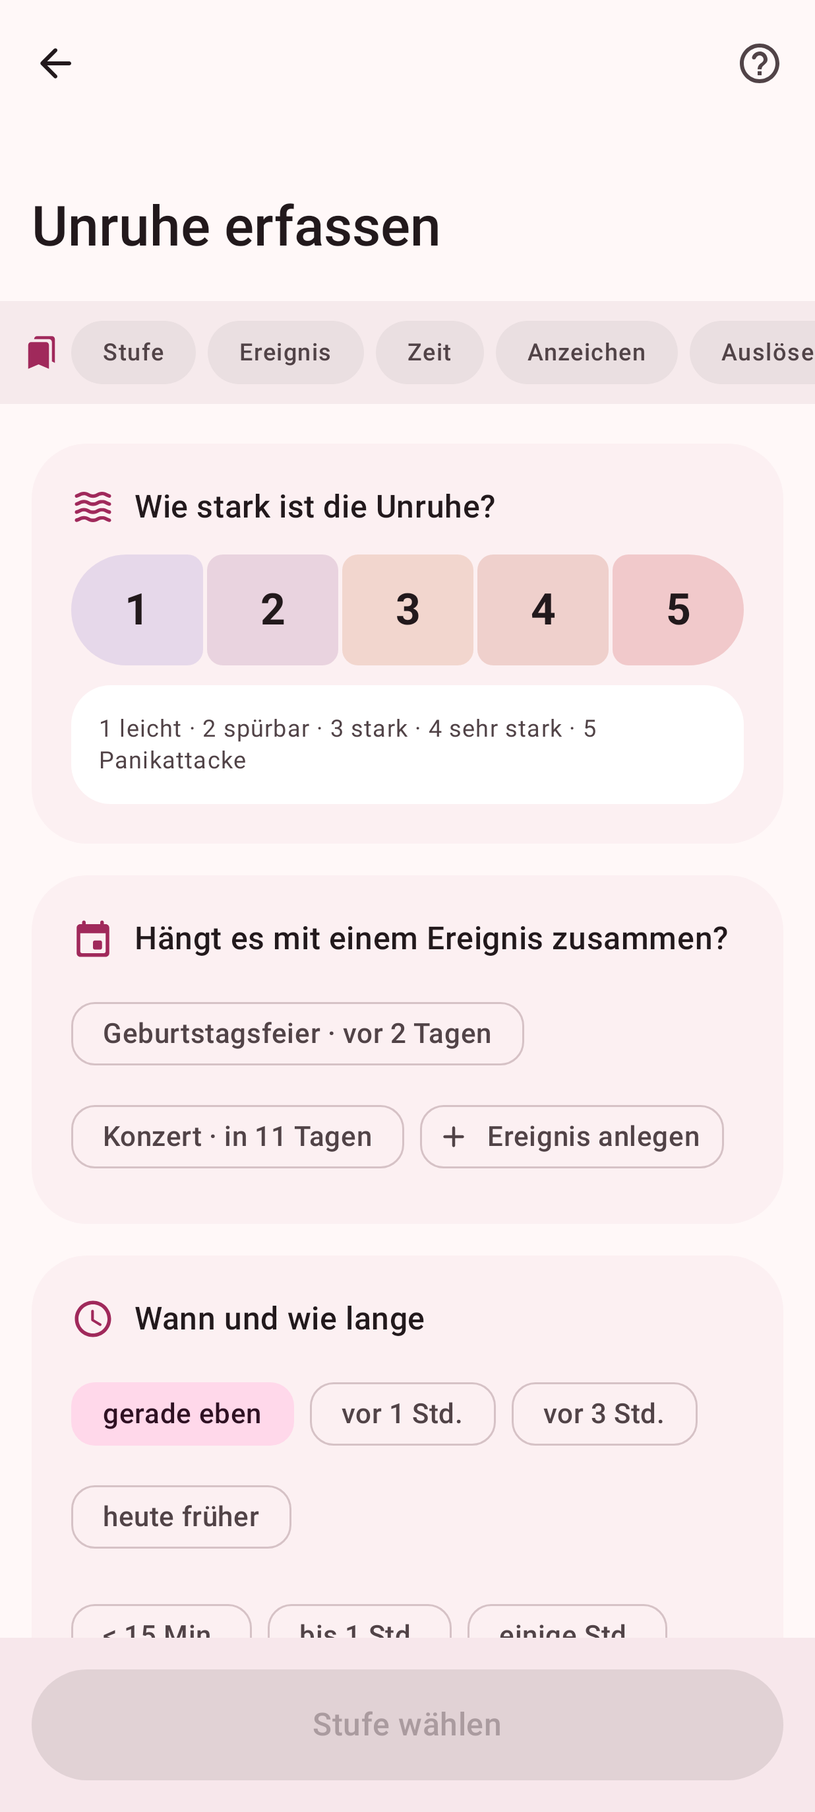
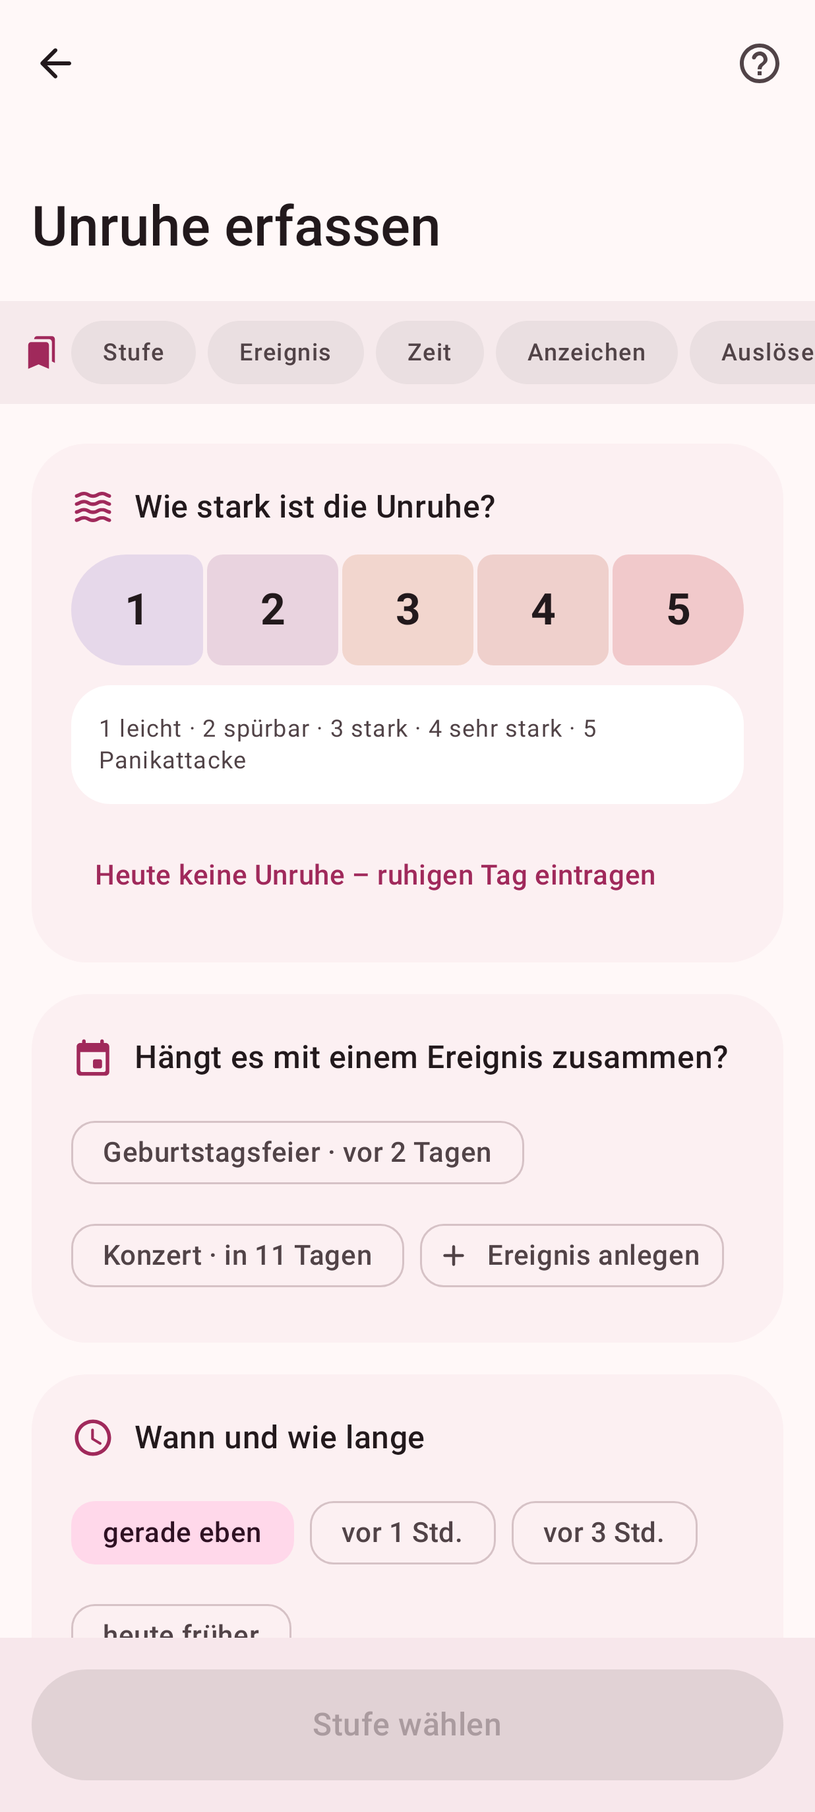
v0.5.1: Verläufe je Kalenderwoche, Unruhe nach Phase nur mit erfassten Tagen, ruhige Tage erfassen
Claude-Session: https://claude.ai/code/session_016ur4THD3drYkvcUc6fCqDM

diff --git a/app/src/main/java/de/fembiond/app/ui/screens/AnalysisScreen.kt b/app/src/main/java/de/fembiond/app/ui/screens/AnalysisScreen.kt
@@ -362,14 +362,21 @@ fun PerimenopauseCard(data: AppData, from: java.time.LocalDate, to: java.time.Lo
             if (stats.size > 6) androidx.compose.material3.TextButton(onClick = { showAll = !showAll }) {
                 Text(if (showAll) "Weniger anzeigen" else "Alle ${stats.size} Beschwerden anzeigen")
             }
-            val months = generateSequence(java.time.YearMonth.from(from)) { it.plusMonths(1) }.takeWhile { !it.isAfter(java.time.YearMonth.from(to)) }.toList()
             val periDays = data.occurrences.filter { it.term in de.fembiond.app.domain.PeriStats.SYMPTOMS && !it.date.isBefore(from) && !it.date.isAfter(to) }
                 .map { it.date }.toSet()
-            if (months.size >= 2 && periDays.size >= 3) {
-                Text("Tage mit Beschwerden pro Monat", style = MaterialTheme.typography.labelLarge)
-                LineChart(months.map { m -> periDays.count { java.time.YearMonth.from(it) == m }.toDouble() },
-                    months.map { "%02d/%02d".format(it.monthValue, it.year % 100) }, 0.0,
-                    months.maxOf { m -> periDays.count { java.time.YearMonth.from(it) == m } }.coerceAtLeast(4).toDouble(), pc.follicular)
+            val trackedAll = (data.occurrences.map { it.date } + data.episodes.map { it.date }).filter { !it.isBefore(from) && !it.isAfter(to) }.toSet()
+            if (periDays.size >= 3) {
+                val mon = { d: java.time.LocalDate -> d.with(java.time.temporal.TemporalAdjusters.previousOrSame(java.time.DayOfWeek.MONDAY)) }
+                val weeks = generateSequence(mon(trackedAll.min())) { it.plusWeeks(1) }.takeWhile { !it.isAfter(mon(trackedAll.max())) }.toList()
+                fun inW(w: java.time.LocalDate, d: java.time.LocalDate) = !d.isBefore(w) && !d.isAfter(w.plusDays(6))
+                if (weeks.size >= 2) {
+                    Text("Tage mit Beschwerden pro Kalenderwoche", style = MaterialTheme.typography.labelLarge)
+                    LineChart(
+                        weeks.map { w -> if (trackedAll.any { inW(w, it) }) periDays.count { inW(w, it) }.toDouble() else null },
+                        weeks.map { "KW ${it.get(java.time.temporal.IsoFields.WEEK_OF_WEEK_BASED_YEAR)}" }, 0.0, 7.0, pc.follicular,
+                    )
+                    HintText("Lücken = Wochen ohne Einträge.")
+                }
             }
         }
         if (mrs.isNotEmpty()) {
@@ -407,7 +414,7 @@ fun AnalysisScreen(data: AppData, nav: NavController) {
     var tabKey by rememberSaveable { mutableStateOf("overview") }
     val hasYear = showMind && data.episodes.any { !it.date.isBefore(from) && !it.date.isAfter(to) }
     val hasTrends = result.trends.size >= 2 && (
-        (showMind && result.trends.any { it.unrestCount > 0 || it.gad != null }) ||
+        (showMind && result.trends.any { (it.unrestCount ?: 0) > 0 || it.gad != null }) ||
             (Category.SLEEP_ENERGY in categories && result.trends.any { it.meanSleep != null || it.meanEnergy != null }))
     val periStats = de.fembiond.app.domain.PeriStats.symptomStats(data.occurrences, from, to)
     val tabs = buildList {
@@ -529,15 +536,25 @@ fun AnalysisScreen(data: AppData, nav: NavController) {
                 }
                 HorizontalDivider()
                 val max = result.unrestByPhase.maxOf { it.count }.coerceAtLeast(1)
-                result.unrestByPhase.forEach { p ->
+                result.unrestByPhase.filter { it.count > 0 || it.daysTracked > 0 }.forEach { p ->
                     RatioBar(
                         p.phase.label, p.count.toDouble() / max,
-                        listOfNotNull("${p.count}", p.meanLevel?.let { "Ø ${it.fmt1()}" }, p.relativeFrequency?.let { "${it.fmt1()}×" }).joinToString(" · "),
+                        listOfNotNull("${p.count}×", p.meanLevel?.let { "Ø Stufe ${it.fmt1()}" }).joinToString(" · "),
                         pc.of(p.phase), p.phase.icon(),
                     )
-                    if (p.panicCount > 0) HintText("davon ${p.panicCount}× Panikattacke")
+                    HintText(listOfNotNull(
+                        "Unruhe an ${p.daysWithUnrest} von ${p.daysTracked} erfassten Tagen",
+                        p.relativeFrequency?.let { "${it.fmt1()}× so häufig wie im Schnitt" },
+                        p.panicCount.takeIf { it > 0 }?.let { "davon ${it}× Panik" },
+                    ).joinToString(" · "))
                 }
-                HintText("Anzahl · mittlere Stufe · relative Häufigkeit (1× = Durchschnitt, berücksichtigt die Länge der Phasen).")
+                HintText("Ø Stufe = Mittelwert nur über die erfassten Unruhe-Episoden. Tage ohne Einträge fließen nirgends ein.")
+                if (result.calmDays < de.fembiond.app.domain.Analytics.MIN_CALM_DAYS) {
+                    Text(
+                        "Bisher wurden fast nur Tage mit Unruhe erfasst. Ob Unruhe in einer Phase häufiger ist, lässt sich erst vergleichen, wenn auch ruhige Tage eingetragen sind – dafür beim Erfassen „Heute keine Unruhe“ antippen.",
+                        style = MaterialTheme.typography.bodySmall, color = MaterialTheme.colorScheme.primary,
+                    )
+                }
             }
         }
 
@@ -612,10 +629,10 @@ fun AnalysisScreen(data: AppData, nav: NavController) {
         }
 
         val trendData = result.trends.size >= 2 && (
-            (showMind && result.trends.any { it.unrestCount > 0 || it.gad != null }) ||
+            (showMind && result.trends.any { (it.unrestCount ?: 0) > 0 || it.gad != null }) ||
                 (Category.SLEEP_ENERGY in categories && result.trends.any { it.meanSleep != null || it.meanEnergy != null }))
-        if (tab == "overview" && trendData) SectionCard(title = "Verläufe pro Monat", icon = Icons.Rounded.ShowChart) {
-            val labels = result.trends.map { it.month.monthValue.toString().padStart(2, '0') + "/" + (it.month.year % 100) }
+        if (tab == "overview" && trendData) SectionCard(title = "Verläufe pro Kalenderwoche", icon = Icons.Rounded.ShowChart) {
+            val labels = result.trends.map { it.label }
             val showSleep = Category.SLEEP_ENERGY in categories
             if (showSleep && result.trends.any { it.meanSleep != null }) {
                 Text("Schlafqualität (1–5)", style = MaterialTheme.typography.labelLarge)
@@ -625,17 +642,17 @@ fun AnalysisScreen(data: AppData, nav: NavController) {
                 Text("Energie (1–5)", style = MaterialTheme.typography.labelLarge)
                 LineChart(result.trends.map { it.meanEnergy }, labels, 1.0, 5.0, MaterialTheme.colorScheme.tertiary)
             }
-            if (showMind && result.trends.any { it.unrestCount > 0 }) {
-            Text("Unruhe-Episoden pro Monat", style = MaterialTheme.typography.labelLarge)
-            LineChart(result.trends.map { it.unrestCount.toDouble() }, labels, 0.0, (result.trends.maxOf { it.unrestCount }.coerceAtLeast(4)).toDouble(), MaterialTheme.colorScheme.tertiary)
+            if (showMind && result.trends.any { (it.unrestCount ?: 0) > 0 }) {
+            Text("Unruhe-Episoden pro Woche", style = MaterialTheme.typography.labelLarge)
+            LineChart(result.trends.map { it.unrestCount?.toDouble() }, labels, 0.0, (result.trends.maxOf { it.unrestCount ?: 0 }.coerceAtLeast(4)).toDouble(), MaterialTheme.colorScheme.tertiary)
             }
             if (showMind && result.trends.any { it.meanUnrestLevel != null }) {
                 Text("Mittlere Unruhe-Stufe (1–5)", style = MaterialTheme.typography.labelLarge)
                 LineChart(result.trends.map { it.meanUnrestLevel }, labels, 1.0, 5.0, unrestColor(3))
             }
-            if (showMind && result.trends.any { it.panicCount > 0 }) {
-            Text("Panikattacken pro Monat", style = MaterialTheme.typography.labelLarge)
-            LineChart(result.trends.map { it.panicCount.toDouble() }, labels, 0.0, (result.trends.maxOf { it.panicCount }.coerceAtLeast(4)).toDouble(), MaterialTheme.colorScheme.error)
+            if (showMind && result.trends.any { (it.panicCount ?: 0) > 0 }) {
+            Text("Panikattacken pro Woche", style = MaterialTheme.typography.labelLarge)
+            LineChart(result.trends.map { it.panicCount?.toDouble() }, labels, 0.0, (result.trends.maxOf { it.panicCount ?: 0 }.coerceAtLeast(4)).toDouble(), MaterialTheme.colorScheme.error)
             }
             if (showMind && result.trends.any { it.gad != null }) {
                 Text("GAD-7 (0–21)", style = MaterialTheme.typography.labelLarge)

diff --git a/app/src/main/java/de/fembiond/app/domain/Analytics.kt b/app/src/main/java/de/fembiond/app/domain/Analytics.kt
@@ -90,9 +90,15 @@ data class UnrestPhaseStat(
     /** Anzahl Unruhe-Episoden (alle Stufen). */
     val count: Int,
     val panicCount: Int,
+    /** Mittlere Stufe – nur über erfasste Episoden; Tage ohne Einträge fließen nicht ein. */
     val meanLevel: Double?,
-    /** Verhältnis Anteil Episoden / Anteil Tage. >1 = gehäuft. */
+    /**
+     * Anteil der erfassten Tage dieser Phase mit Unruhe im Verhältnis zum Durchschnitt (1× = Durchschnitt).
+     * Nur berechnet, wenn es auch erfasste Tage ohne Unruhe gibt – sonst null.
+     */
     val relativeFrequency: Double?,
+    val daysTracked: Int = 0,
+    val daysWithUnrest: Int = 0,
 )
 
 /** Unruhe in den Tagen rund um Ereignisse (Tag 0 = Ereignistag). */
@@ -137,12 +143,17 @@ data class PeriodCompare(
     val topTerms: List<Pair<String, Double>>,
 )
 
-data class MonthTrend(
-    val month: YearMonth,
+/** Verlauf je Kalenderwoche (ISO, Montag–Sonntag). Wochen ohne Einträge haben null-Werte. */
+data class WeekTrend(
+    val weekStart: LocalDate,
+    val label: String,
+    val tracked: Boolean,
     val meanSleep: Double?,
     val meanEnergy: Double?,
-    val unrestCount: Int,
-    val panicCount: Int,
+    /** Anzahl Unruhe-Episoden; null, wenn in der Woche nichts erfasst wurde. */
+    val unrestCount: Int?,
+    val panicCount: Int?,
+    /** Mittlere Stufe nur über erfasste Episoden (Tage ohne Einträge zählen nicht). */
     val meanUnrestLevel: Double?,
     val gad: Double?,
 )
@@ -155,6 +166,8 @@ data class AnalysisResult(
     val drsp: List<DrspResult>,
     val drspPairs: List<DrspPair>,
     val unrestByPhase: List<UnrestPhaseStat>,
+    /** Erfasste Tage ohne Unruhe – nötig für Häufigkeitsvergleiche. */
+    val calmDays: Int,
     val unrestTotal: Int,
     val panicTotal: Int,
     /** Anzahl Episoden je Stufe 1–5. */
@@ -166,7 +179,7 @@ data class AnalysisResult(
     val nextDay: List<PairStat>,
     val events: List<EventEffect>,
     val compare: List<PeriodCompare>,
-    val trends: List<MonthTrend>,
+    val trends: List<WeekTrend>,
     val insights: List<String>,
 )
 
@@ -234,7 +247,7 @@ object Analytics {
         val (co, next) = pairs(topTerms.take(25), dayWeight)
         val lifeEffects = events(termDays, dayWeight)
         val compare = compare(input, dayWeight, allOcc, panics)
-        val trends = trends(scaleOcc, panics, input.gad.filter { inRange(it.date) })
+        val trends = trends(scaleOcc, panics, input.gad.filter { inRange(it.date) }, dayWeight.keys)
 
         val result = AnalysisResult(
             trackedDays = dayWeight.size,
@@ -244,6 +257,7 @@ object Analytics {
             drsp = drsp,
             drspPairs = drspPairs,
             unrestByPhase = unrestByPhase,
+            calmDays = dayWeight.keys.count { d -> panics.none { it.date == d } },
             unrestTotal = panics.size,
             panicTotal = panics.count { it.isPanic },
             levelCounts = (1..5).map { l -> panics.count { it.level == l } },
@@ -370,27 +384,33 @@ object Analytics {
             .sortedByDescending { it.premenstrual - it.postmenstrual }
     }
 
+    /** Mindestanzahl erfasster ruhiger Tage, damit Häufigkeiten nach Phase verglichen werden. */
+    const val MIN_CALM_DAYS = 3
+
     private fun unrestByPhase(
         episodes: List<Episode>,
         dayWeight: Map<LocalDate, Double>,
         dayInfo: Map<LocalDate, DayInfo?>,
         s: CycleSummary,
     ): List<UnrestPhaseStat> {
-        val trackedPhase = HashMap<Phase, Double>()
-        dayWeight.forEach { (d, w) -> dayInfo[d]?.let { trackedPhase.merge(it.phase, w, Double::plus) } }
-        val totalTracked = trackedPhase.values.sum()
+        val unrestDays = episodes.map { it.date }.toSet()
+        val tracked = dayWeight.keys.filter { dayInfo[it] != null }
+        val calm = tracked.count { it !in unrestDays }
+        val overallRate = if (tracked.isNotEmpty()) tracked.count { it in unrestDays }.toDouble() / tracked.size else 0.0
         val byPhase = episodes.groupBy { CycleEngine.dayInfo(s, it.date)?.phase }
-        val total = episodes.count { CycleEngine.dayInfo(s, it.date) != null }
         return Phase.entries.map { p ->
             val list = byPhase[p].orEmpty()
-            val dayShare = if (totalTracked > 0) (trackedPhase[p] ?: 0.0) / totalTracked else 0.0
-            val share = if (total > 0) list.size.toDouble() / total else 0.0
+            val days = tracked.filter { dayInfo[it]?.phase == p }
+            val withUnrest = days.count { it in unrestDays }
+            val rate = if (days.isNotEmpty()) withUnrest.toDouble() / days.size else 0.0
             UnrestPhaseStat(
                 phase = p,
                 count = list.size,
                 panicCount = list.count { it.isPanic },
                 meanLevel = list.takeIf { it.isNotEmpty() }?.map { it.level }?.average(),
-                relativeFrequency = if (dayShare > 0 && total >= 3) share / dayShare else null,
+                relativeFrequency = if (calm >= MIN_CALM_DAYS && overallRate > 0 && days.size >= 3) rate / overallRate else null,
+                daysTracked = days.size,
+                daysWithUnrest = withUnrest,
             )
         }
     }
@@ -546,21 +566,33 @@ object Analytics {
         }
     }
 
-    private fun trends(scale: List<TermOccurrence>, panics: List<Episode>, gad: List<GadRecord>): List<MonthTrend> {
-        val months = (scale.map { YearMonth.from(it.date) } + panics.map { YearMonth.from(it.date) } + gad.map { YearMonth.from(it.date) })
-            .toSortedSet()
-        return months.map { m ->
-            val sc = scale.filter { YearMonth.from(it.date) == m }
-            MonthTrend(
-                month = m,
+    private fun trends(
+        scale: List<TermOccurrence>, panics: List<Episode>, gad: List<GadRecord>, trackedDays: Set<LocalDate>,
+    ): List<WeekTrend> {
+        val dates = scale.map { it.date } + panics.map { it.date } + gad.map { it.date } + trackedDays
+        if (dates.isEmpty()) return emptyList()
+        fun monday(d: LocalDate) = d.with(java.time.temporal.TemporalAdjusters.previousOrSame(java.time.DayOfWeek.MONDAY))
+        val first = monday(dates.min())
+        val last = monday(dates.max())
+        val weekFields = java.time.temporal.IsoFields.WEEK_OF_WEEK_BASED_YEAR
+        return generateSequence(first) { it.plusWeeks(1) }.takeWhile { !it.isAfter(last) }.map { w ->
+            val end = w.plusDays(6)
+            fun inW(d: LocalDate) = !d.isBefore(w) && !d.isAfter(end)
+            val tracked = trackedDays.any { inW(it) }
+            val sc = scale.filter { inW(it.date) }
+            val ep = panics.filter { inW(it.date) }
+            WeekTrend(
+                weekStart = w,
+                label = "KW ${w.get(weekFields)}",
+                tracked = tracked,
                 meanSleep = sc.filter { it.term == ScaleTerms.SLEEP_QUALITY }.mapNotNull { it.intensity }.takeIf { it.isNotEmpty() }?.average(),
                 meanEnergy = sc.filter { it.term == ScaleTerms.ENERGY }.mapNotNull { it.intensity }.takeIf { it.isNotEmpty() }?.average(),
-                unrestCount = panics.count { YearMonth.from(it.date) == m },
-                panicCount = panics.count { YearMonth.from(it.date) == m && it.isPanic },
-                meanUnrestLevel = panics.filter { YearMonth.from(it.date) == m }.map { it.level }.takeIf { it.isNotEmpty() }?.average(),
-                gad = gad.filter { YearMonth.from(it.date) == m }.map { it.score }.takeIf { it.isNotEmpty() }?.average(),
+                unrestCount = if (tracked) ep.size else null,
+                panicCount = if (tracked) ep.count { it.isPanic } else null,
+                meanUnrestLevel = ep.takeIf { it.isNotEmpty() }?.map { it.level }?.average(),
+                gad = gad.filter { inW(it.date) }.map { it.score }.takeIf { it.isNotEmpty() }?.average(),
             )
-        }
+        }.toList()
     }
 }
 

diff --git a/app/src/test/java/de/fembiond/app/domain/UnrestPhaseTest.kt b/app/src/test/java/de/fembiond/app/domain/UnrestPhaseTest.kt
@@ -1,0 +1,52 @@
+package de.fembiond.app.domain
+
+import org.junit.Assert.assertEquals
+import org.junit.Assert.assertNotNull
+import org.junit.Assert.assertNull
+import org.junit.Assert.assertTrue
+import org.junit.Test
+import java.time.LocalDate
+
+class UnrestPhaseTest {
+    private val start = LocalDate.of(2026, 1, 5)
+    private val periods = (0..3).map { PeriodRecord(start = start.plusDays(it * 24L), end = start.plusDays(it * 24L + 6)) }
+    private val today = start.plusDays(3 * 24L + 10)
+    private val summary = CycleEngine.analyze(periods, emptyList(), today)
+
+    private fun ep(d: LocalDate, l: Int) = Episode(time = d.atTime(12, 0), durationMinutes = null, level = l, symptoms = emptyList(), triggers = emptyList(), helped = emptyList())
+
+    @Test
+    fun meanLevelOnlyFromEpisodesAndNoFrequencyWithoutCalmDays() {
+        // Nur Unruhe-Tage erfasst (wie bei reiner Episoden-Erfassung)
+        val eps = listOf(ep(start.plusDays(2), 2), ep(start.plusDays(3), 4), ep(start.plusDays(20), 1), ep(start.plusDays(21), 1))
+        val r = Analytics.analyze(AnalysisInput(summary, emptyList(), eps, emptyList(), emptyList(), start, today))
+        val men = r.unrestByPhase.first { it.phase == Phase.MENSTRUATION }
+        assertEquals(3.0, men.meanLevel!!, 0.001)            // (2+4)/2 – Tage ohne Einträge zählen nicht
+        assertEquals(2, men.daysTracked)
+        assertNull(men.relativeFrequency)                      // ohne ruhige Tage kein Häufigkeitsvergleich
+        assertEquals(0, r.calmDays)
+    }
+
+    @Test
+    fun frequencyWithCalmDays() {
+        val eps = listOf(ep(start.plusDays(20), 3), ep(start.plusDays(21), 3), ep(start.plusDays(22), 3))
+        val calm = (1..12).map { TermOccurrence(start.plusDays(it.toLong()).atTime(20, 0), "ausgeglichen", Category.MIND) }
+        val r = Analytics.analyze(AnalysisInput(summary, calm, eps, emptyList(), emptyList(), start, today))
+        assertTrue(r.calmDays >= 3)
+        val luteal = r.unrestByPhase.first { it.phase == Phase.LUTEAL }
+        assertNotNull(luteal.relativeFrequency)
+        assertTrue(luteal.relativeFrequency!! > 1.0)
+        assertEquals(3.0, luteal.meanLevel!!, 0.001)
+    }
+
+    @Test
+    fun weeklyTrendsLeaveGapsForUntrackedWeeks() {
+        val eps = listOf(ep(start, 2), ep(start.plusDays(1), 4), ep(start.plusDays(21), 1))
+        val r = Analytics.analyze(AnalysisInput(summary, emptyList(), eps, emptyList(), emptyList(), start, today))
+        assertTrue(r.trends.first().label.startsWith("KW "))
+        assertEquals(2, r.trends.first().unrestCount)
+        assertEquals(3.0, r.trends.first().meanUnrestLevel!!, 0.001)
+        assertNull(r.trends[1].unrestCount)                    // Woche ohne Einträge = Lücke, nicht 0
+        assertNull(r.trends[1].meanUnrestLevel)
+    }
+}

diff --git a/app/src/main/java/de/fembiond/app/export/DiagnosticExport.kt b/app/src/main/java/de/fembiond/app/export/DiagnosticExport.kt
@@ -179,6 +179,7 @@ object DiagnosticExport {
                     result.unrestByPhase.forEach { p ->
                         add(buildJsonObject {
                             put("phase", p.phase.name); put("count", p.count); put("panic", p.panicCount)
+                            put("days_tracked", p.daysTracked); put("days_with_unrest", p.daysWithUnrest)
                             p.meanLevel?.let { put("mean_level", r1(it)) }; p.relativeFrequency?.let { put("relative_frequency", r1(it)) }
                         })
                     }
@@ -186,6 +187,15 @@ object DiagnosticExport {
                 putJsonArray("anticipation") {
                     result.anticipation.forEach { a ->
                         add(buildJsonObject { put("offset", a.offset); put("events", a.events); a.meanMaxLevel?.let { put("mean_max_level", r1(it)) } })
+                    }
+                }
+                put("calm_days_tracked", result.calmDays)
+                putJsonArray("weekly_trends") {
+                    result.trends.forEach { w ->
+                        add(buildJsonObject {
+                            put("week", w.label); put("week_start", w.weekStart.toString()); put("tracked", w.tracked)
+                            w.unrestCount?.let { put("unrest_count", it) }; w.meanUnrestLevel?.let { put("mean_unrest_level", r1(it)) }
+                        })
                     }
                 }
                 put("insights", JsonArray(result.insights.map(::JsonPrimitive)))

diff --git a/app/src/main/java/de/fembiond/app/ui/screens/Sheets.kt b/app/src/main/java/de/fembiond/app/ui/screens/Sheets.kt
@@ -49,6 +49,9 @@ import de.fembiond.app.ui.morphShapes
 import de.fembiond.app.ui.relativeDays
 import java.time.LocalDateTime
 
+/** Begriff für Tage ohne Unruhe – damit ruhige Tage in Vergleichen als 0 zählen. */
+const val CALM_TERM = "ausgeglichen"
+
 /** Unruhe schnell erfassen, ohne den Startbildschirm zu verlassen. */
 @OptIn(ExperimentalMaterial3Api::class)
 @Composable
@@ -62,6 +65,12 @@ fun QuickUnrestSheet(vm: AppViewModel, data: AppData, nav: NavController, onDism
         Column(Modifier.padding(horizontal = 20.dp).navigationBarsPadding().padding(bottom = 16.dp), verticalArrangement = Arrangement.spacedBy(14.dp)) {
             Text("Unruhe erfassen", style = MaterialTheme.typography.titleLarge)
             UnrestLevelPicker(level, { level = it })
+            androidx.compose.material3.TextButton(onClick = {
+                haptic.performHapticFeedback(HapticFeedbackType.Confirm)
+                vm.run { saveEntry(LocalDateTime.now(), "", listOf(Selection(CALM_TERM, Category.MIND)), "calm") }
+                Toast.makeText(context, "Ruhiger Tag erfasst", Toast.LENGTH_SHORT).show()
+                onDismiss()
+            }) { Text("Heute keine Unruhe – ruhigen Tag eintragen") }
             if (events.isNotEmpty()) {
                 Text("Hängt es mit einem Ereignis zusammen?", style = MaterialTheme.typography.labelLarge)
                 ChipFlow {

diff --git a/app/src/main/java/de/fembiond/app/ui/screens/UnrestScreen.kt b/app/src/main/java/de/fembiond/app/ui/screens/UnrestScreen.kt
@@ -112,6 +112,11 @@ fun UnrestScreen(vm: AppViewModel, data: AppData, nav: NavController, preselectE
     ) {
         SectionCard(title = "Wie stark ist die Unruhe?", icon = Icons.Rounded.Waves) {
             de.fembiond.app.ui.UnrestLevelPicker(level, { level = it })
+            androidx.compose.material3.TextButton(onClick = {
+                val t = if (day != null && day != data.today) day.atTime(12, 0) else LocalDateTime.now()
+                vm.run { saveEntry(t, "", listOf(de.fembiond.app.data.Selection(CALM_TERM, Category.MIND)), "calm") }
+                nav.popBackStack()
+            }) { Text(if (day != null && day != data.today) "An diesem Tag keine Unruhe" else "Heute keine Unruhe – ruhigen Tag eintragen") }
         }
 
         SectionCard(title = "Hängt es mit einem Ereignis zusammen?", icon = Icons.Rounded.Event) {

diff --git a/app/src/main/assets/releases/v0.5.1.md b/app/src/main/assets/releases/v0.5.1.md
@@ -1,0 +1,6 @@
+## Auswertung präziser
+
+- **Verläufe pro Kalenderwoche statt pro Monat:** Unruhe-Episoden, mittlere Stufe, Panikattacken, Schlaf und Energie sowie die Tage mit Perimenopause-Beschwerden. Wochen ohne Einträge erscheinen als Lücke, nicht als 0.
+- **Unruhe nach Zyklusphase:** Die mittlere Stufe zählt ausdrücklich nur erfasste Unruhe-Episoden, Tage ohne Einträge fließen nicht ein. Neu steht pro Phase dabei, an wie vielen erfassten Tagen Unruhe auftrat.
+- **Häufigkeitsvergleich nur mit ruhigen Tagen:** Werden nur Tage mit Unruhe erfasst, lässt sich nicht sagen, ob Unruhe in einer Phase häufiger ist. Die Angabe „1,0×“ war in diesem Fall nicht aussagekräftig. Sie erscheint jetzt erst, wenn auch ruhige Tage erfasst sind, sonst steht dort ein Hinweis.
+- **Neu: „Heute keine Unruhe“** beim Erfassen von Unruhe, auch für vergangene Tage. Damit werden ruhige Tage erfasst und Vergleiche zwischen den Phasen möglich.
